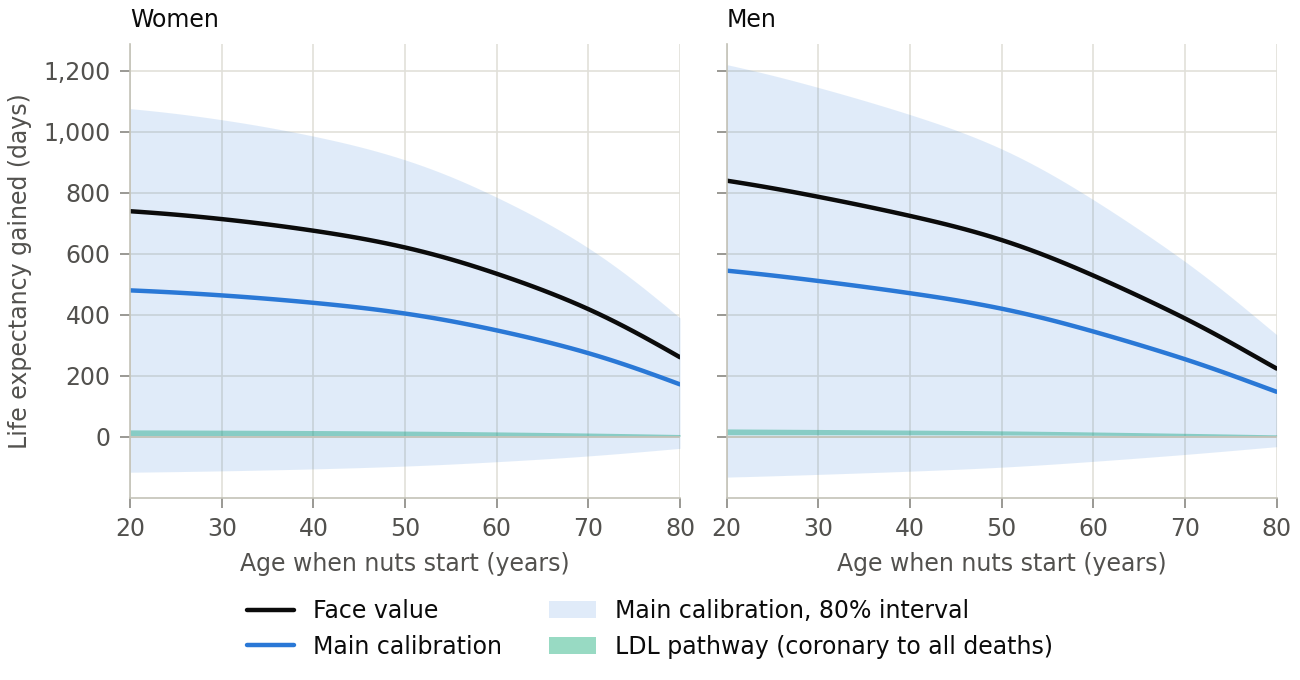
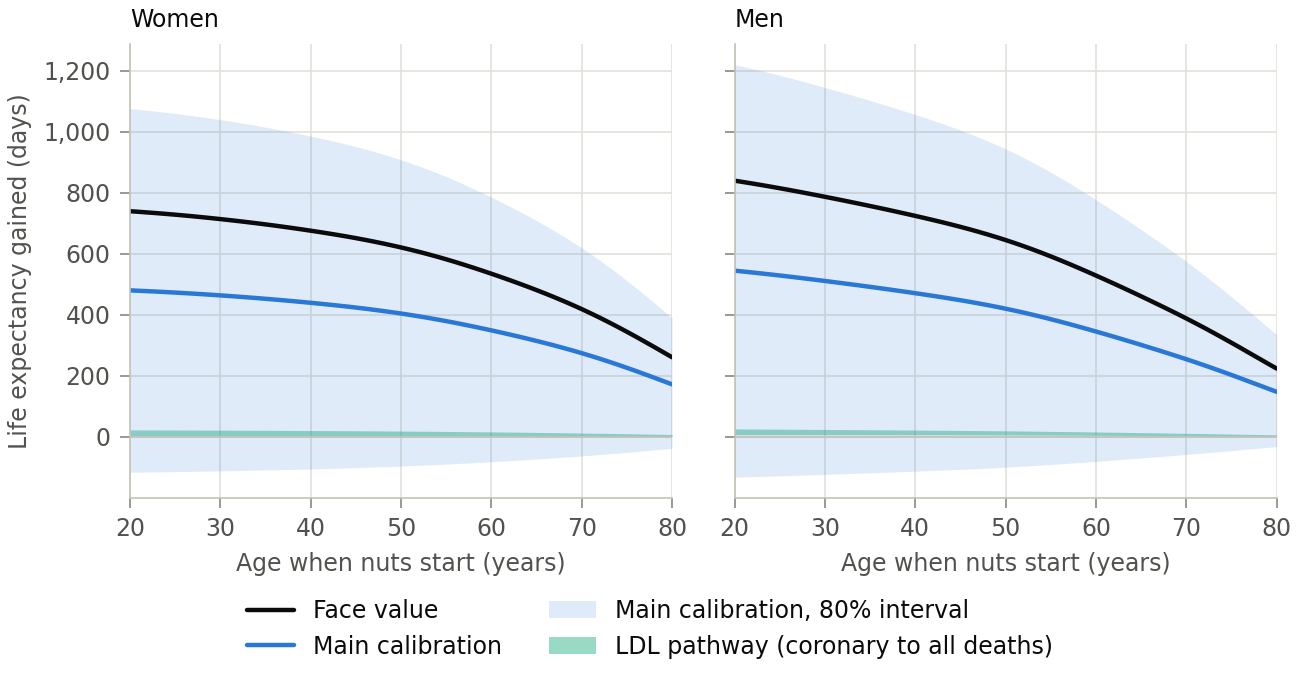
Space the side-by-side panels so their tick labels stay apart
In the age figure the left panel's last tick, 80, and the right panel's first,
20, sat about two points apart at print size, close enough to read as one
number; the dose and marginal figures were only a little wider. The panels
share one layout function, which now sets the constrained layout's wspace to
STYLE["panel_wspace"] (0.05), so all three figures now leave about a
character's width between the labels. results.json is unchanged; only the
three PNGs change.

diff --git a/src/whatnut/pipeline.py b/src/whatnut/pipeline.py
@@ -829,6 +829,9 @@ STYLE = {
     "interval_80_width": 3.2,
     "interval_95_width": 1.0,
     "row_offset": 0.17,
+    # gap between side-by-side panels (fraction of the figure), wide enough that
+    # the left panel's last x tick label and the right panel's first stay apart
+    "panel_wspace": 0.05,
     "errorbar_width": 1.2,
     "rr_axis_top": 1.02,
 }
@@ -972,6 +975,7 @@ def _scenario_panels(fd: dict, xs: list, xlabel: str, path: Path, plt) -> None:
     fig, axes = plt.subplots(
         1, 2, figsize=(s["width_in"], s["height_in"]), sharey=True, layout="constrained"
     )
+    fig.get_layout_engine().set(wspace=s["panel_wspace"])
     for ax, sex in zip(axes, SEXES):
         d = fd[sex]
         ax.fill_between(
